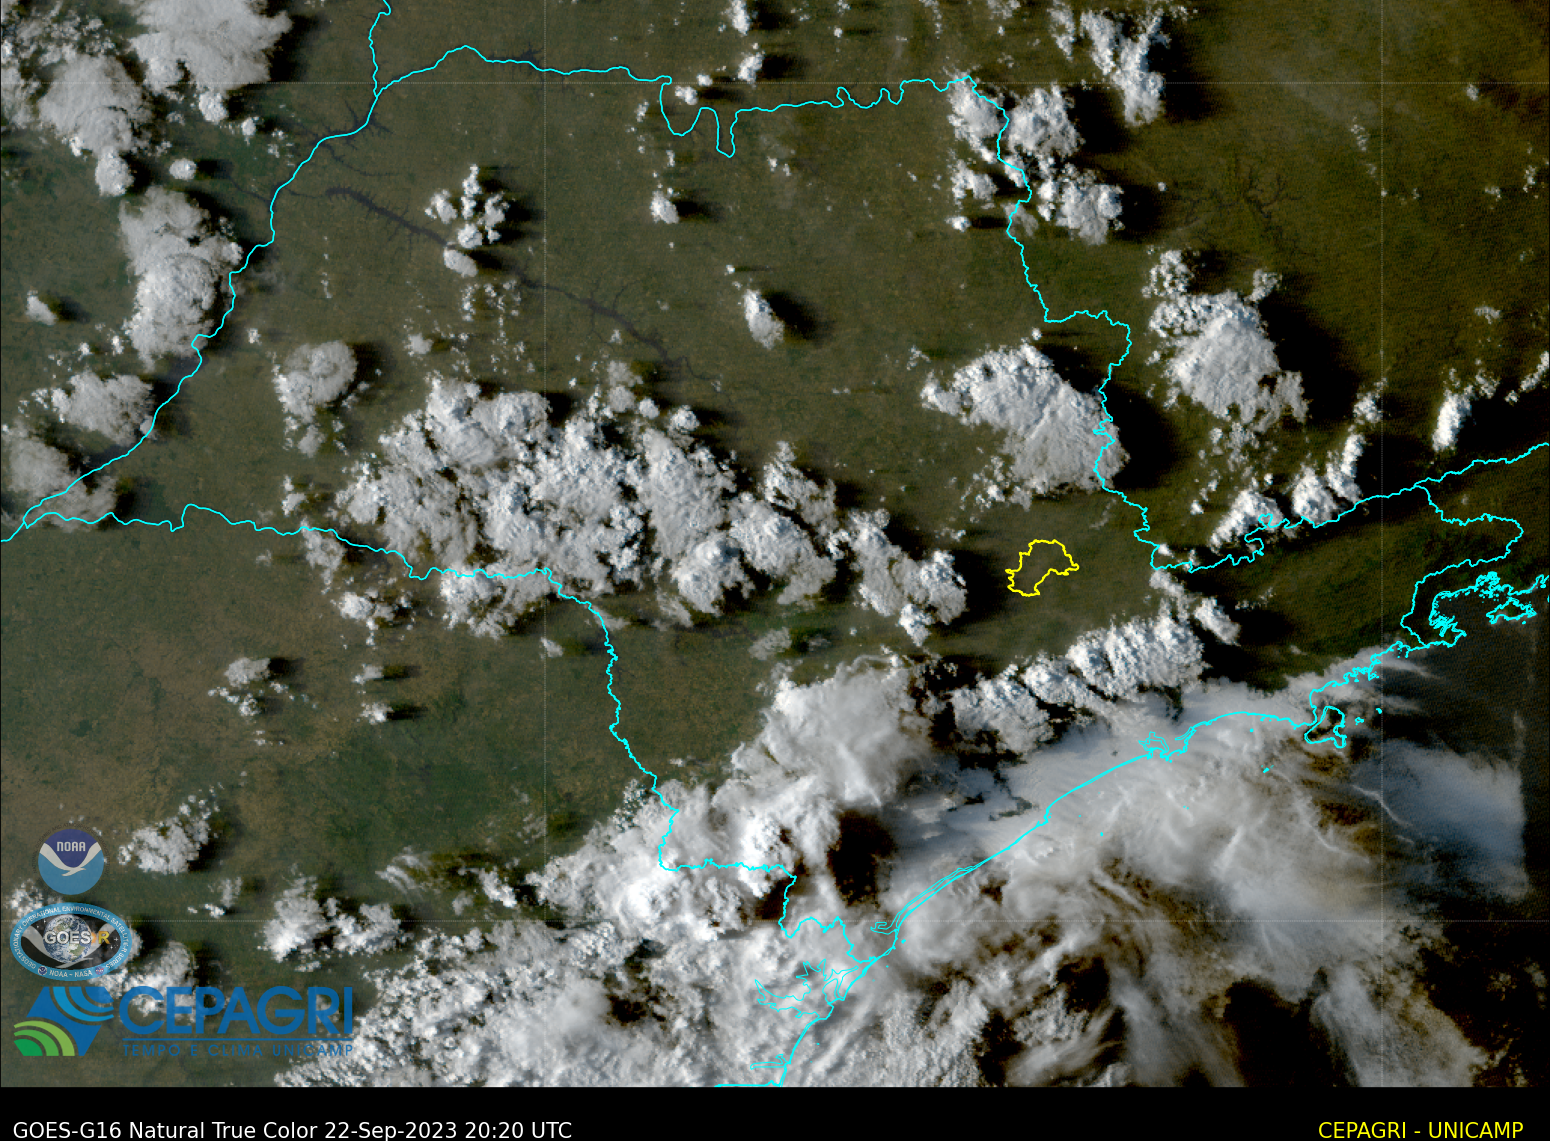
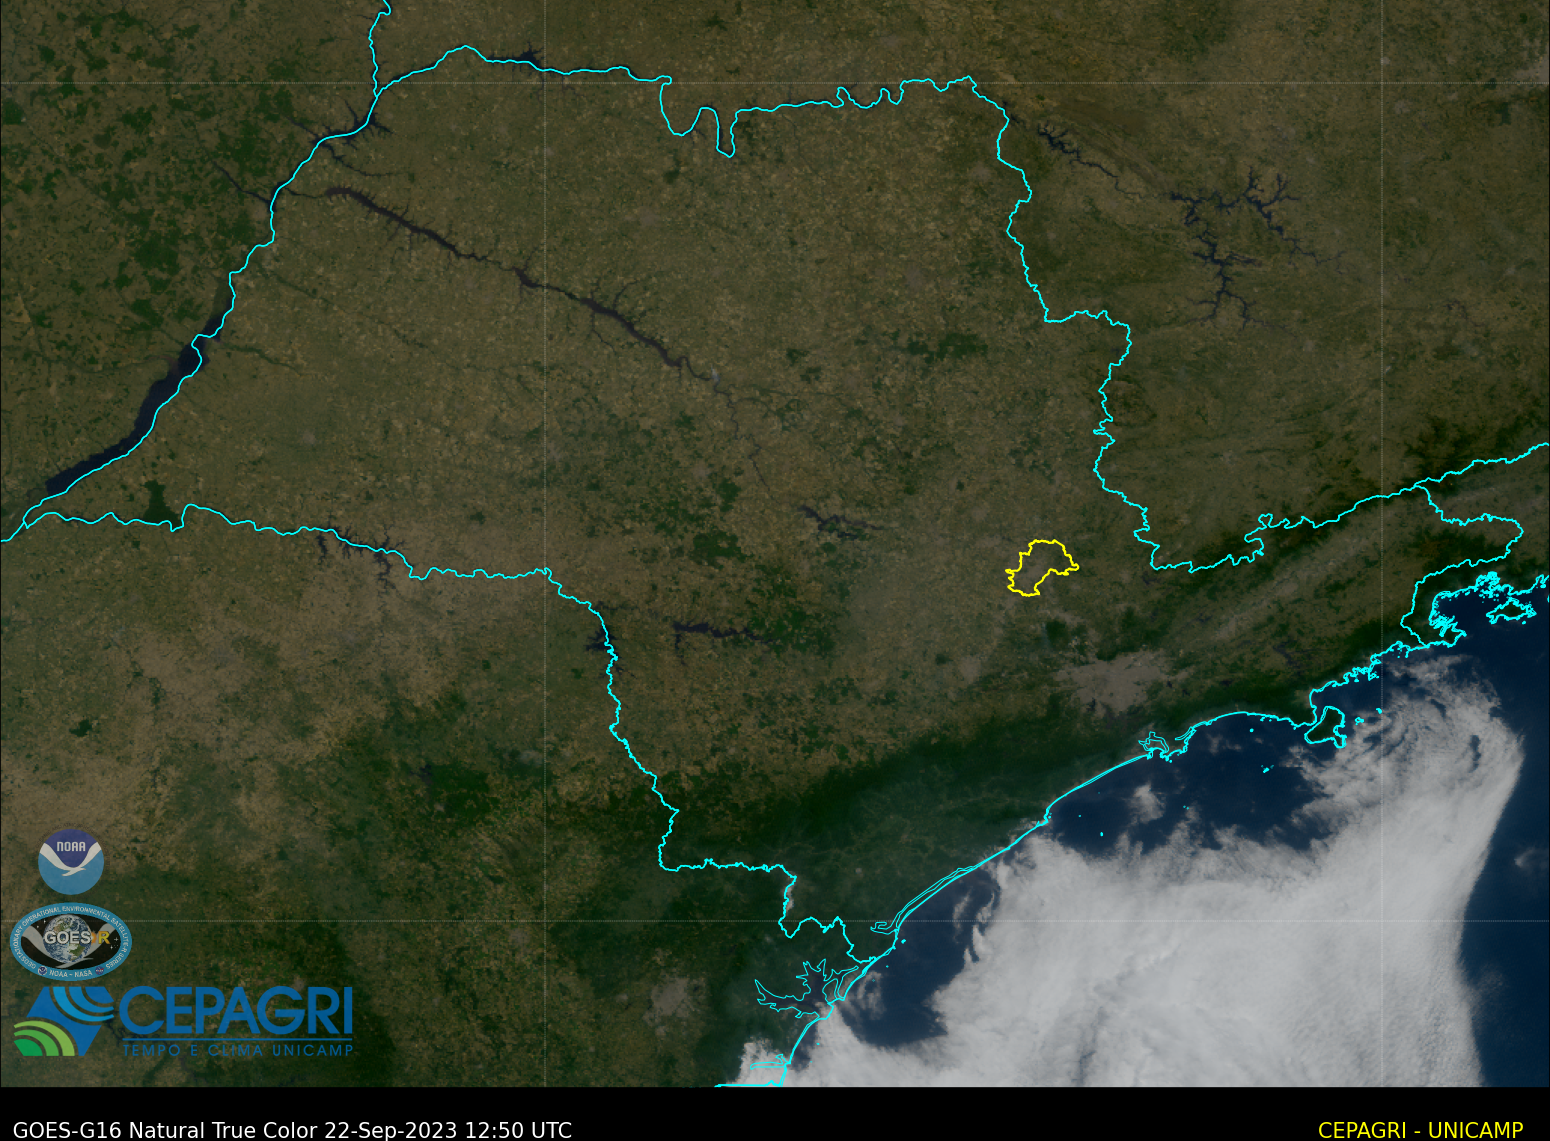
""

diff --git a/truecolor.py b/truecolor.py
@@ -349,13 +349,13 @@ process_sp = []
 p_br = True
 p_sp = True
 
-# Coloque as badas em goes/band0? e coloque o nome do arquivo aqui
-new_bands = { '01': f'OR_ABI-L2-CMIPF-M6C01_G16_s20232652020205_e20232652029513_c20232652029585.nc', 
-              '02': f'OR_ABI-L2-CMIPF-M6C02_G16_s20232652020205_e20232652029513_c20232652029573.nc',
-              '03': f'OR_ABI-L2-CMIPF-M6C03_G16_s20232652020205_e20232652029513_c20232652029575.nc'}
+# # Coloque as badas em goes/band0? e coloque o nome do arquivo aqui
+# new_bands = { '01': f'OR_ABI-L2-CMIPF-M6C01_G16_s20232652020205_e20232652029513_c20232652029585.nc', 
+#               '02': f'OR_ABI-L2-CMIPF-M6C02_G16_s20232652020205_e20232652029513_c20232652029573.nc',
+#               '03': f'OR_ABI-L2-CMIPF-M6C03_G16_s20232652020205_e20232652029513_c20232652029575.nc'}
 
-# new_bands = { '01': f'OR_ABI-L2-CMIPF-M6C01_G16_s20232651250207_e20232651259515_c20232651259586.nc', 
-#               '02': f'OR_ABI-L2-CMIPF-M6C02_G16_s20232651250207_e20232651259515_c20232651259572.nc',
-#               '03': f'OR_ABI-L2-CMIPF-M6C03_G16_s20232651250207_e20232651259515_c20232651259577.nc'}
+new_bands = { '01': f'OR_ABI-L2-CMIPF-M6C01_G16_s20232651250207_e20232651259515_c20232651259586.nc', 
+              '02': f'OR_ABI-L2-CMIPF-M6C02_G16_s20232651250207_e20232651259515_c20232651259572.nc',
+              '03': f'OR_ABI-L2-CMIPF-M6C03_G16_s20232651250207_e20232651259515_c20232651259577.nc'}
 
 iniciar_processo_truelocor(p_br, p_sp, bands, process_br, process_sp, new_bands)
